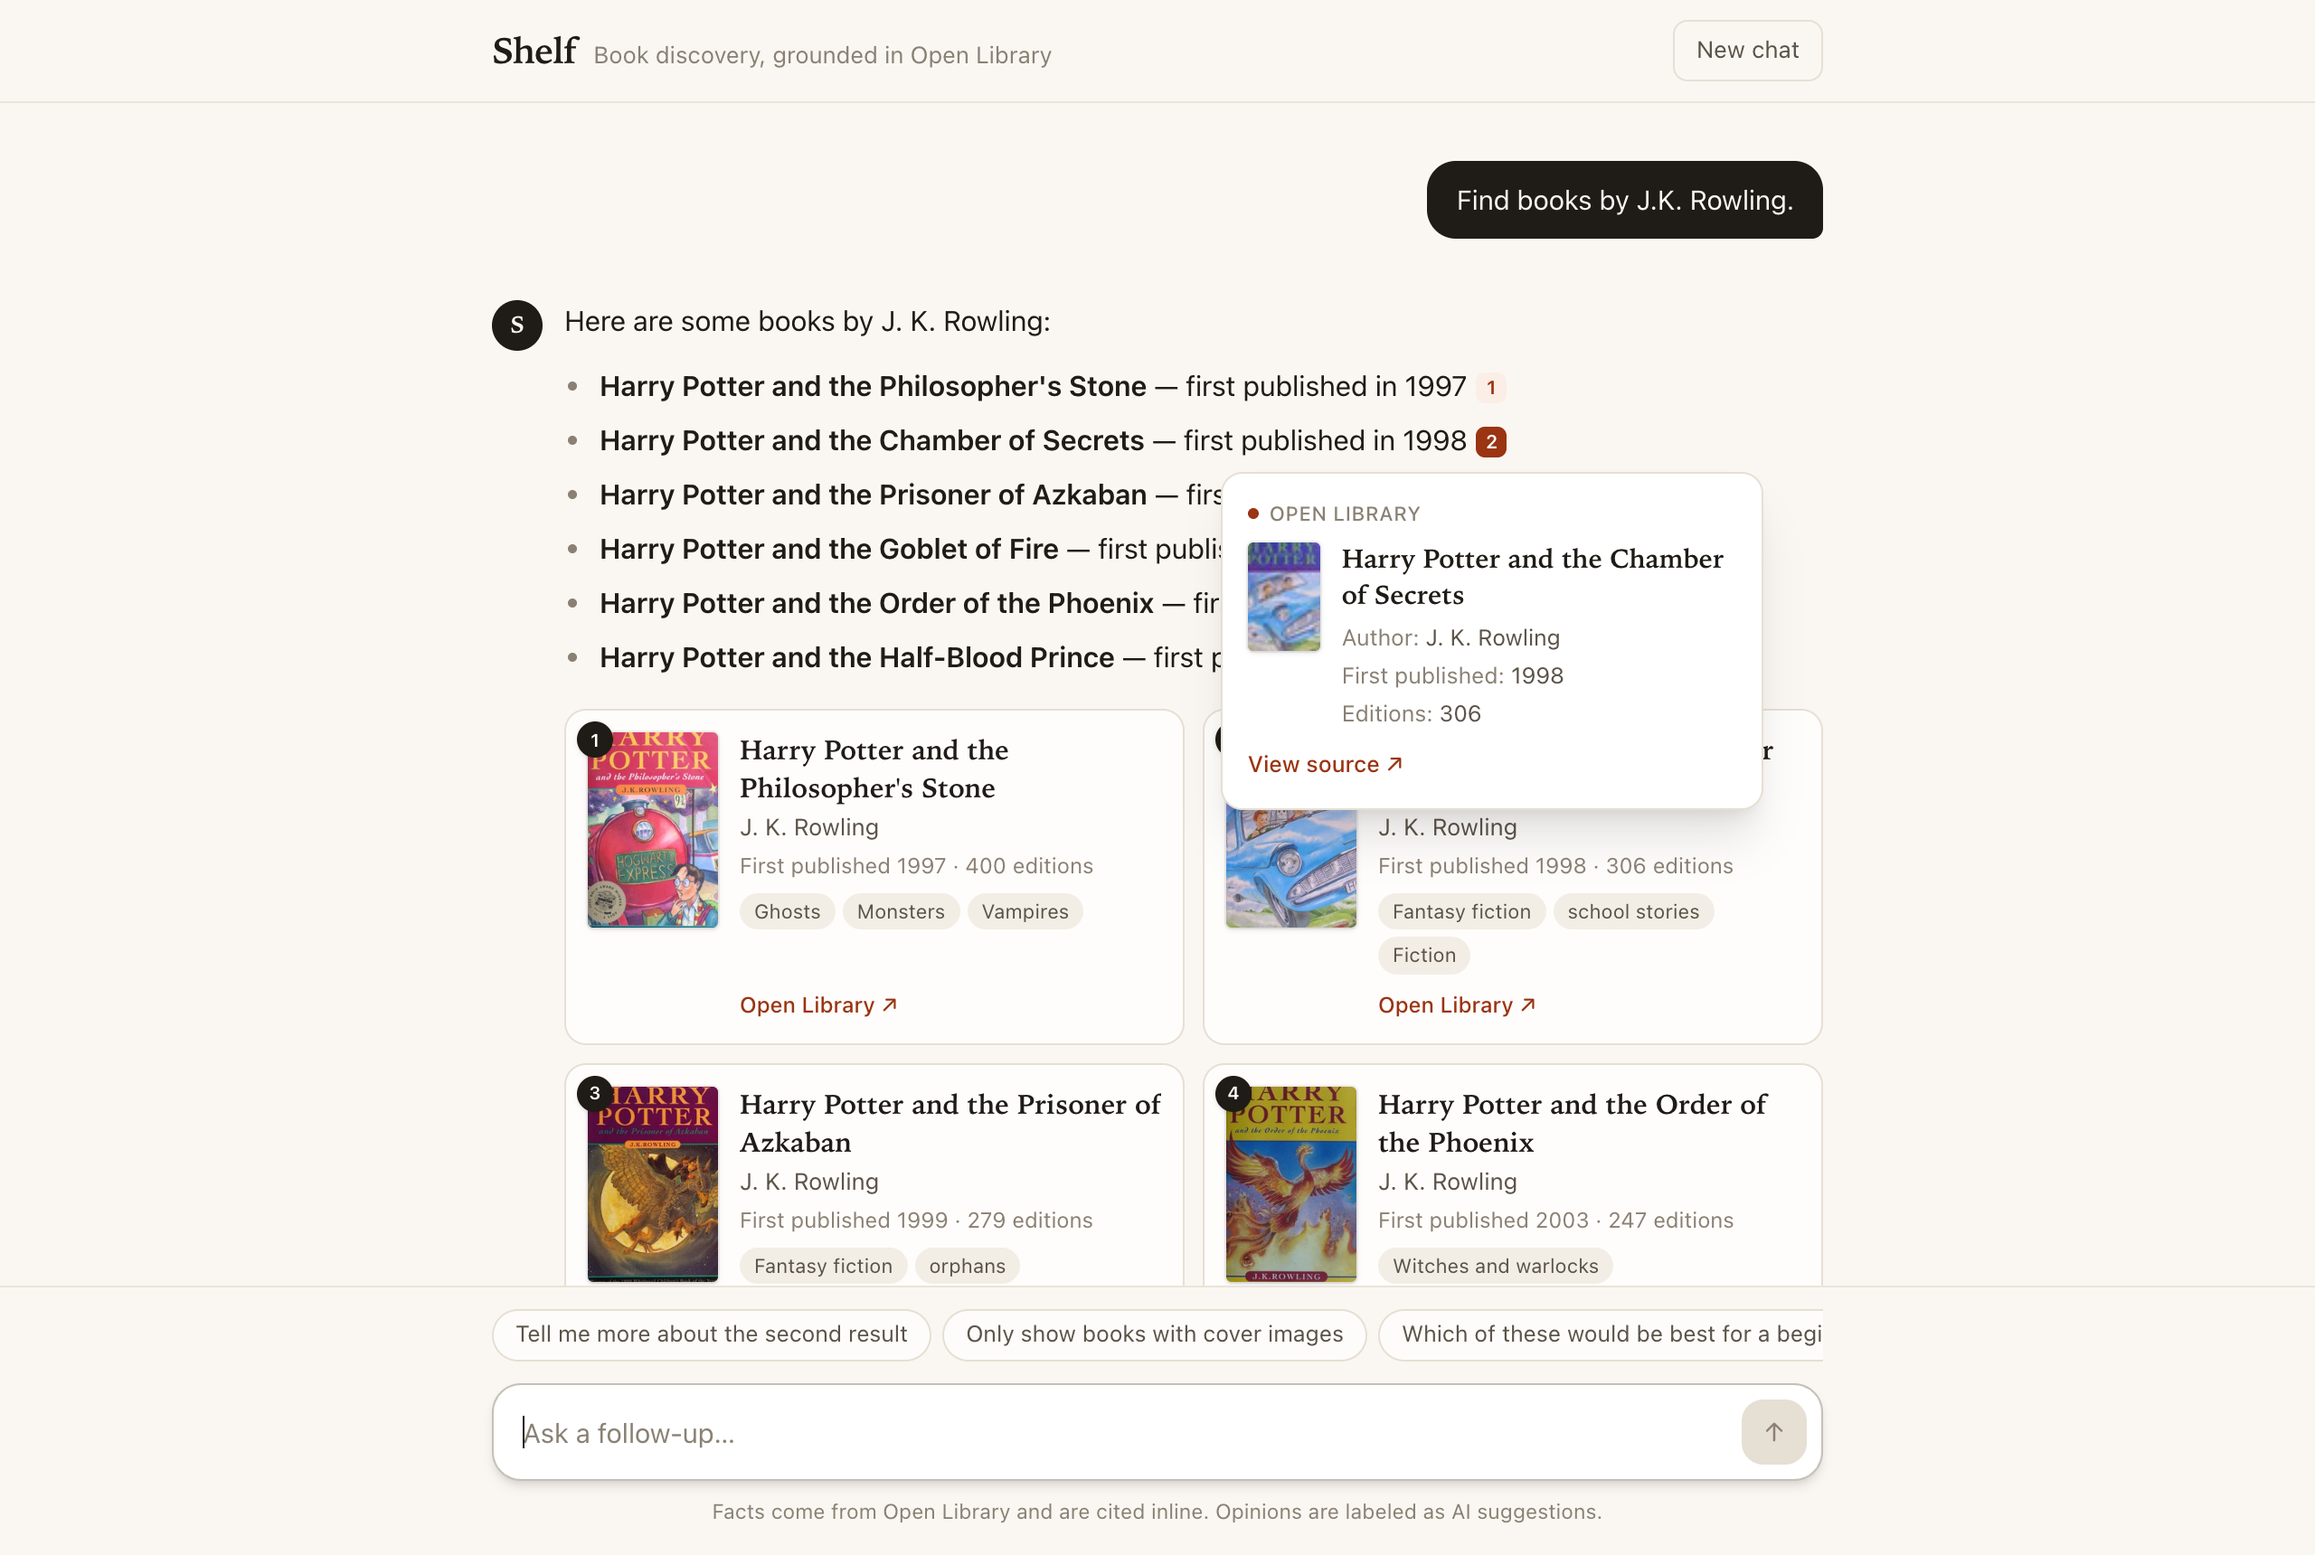
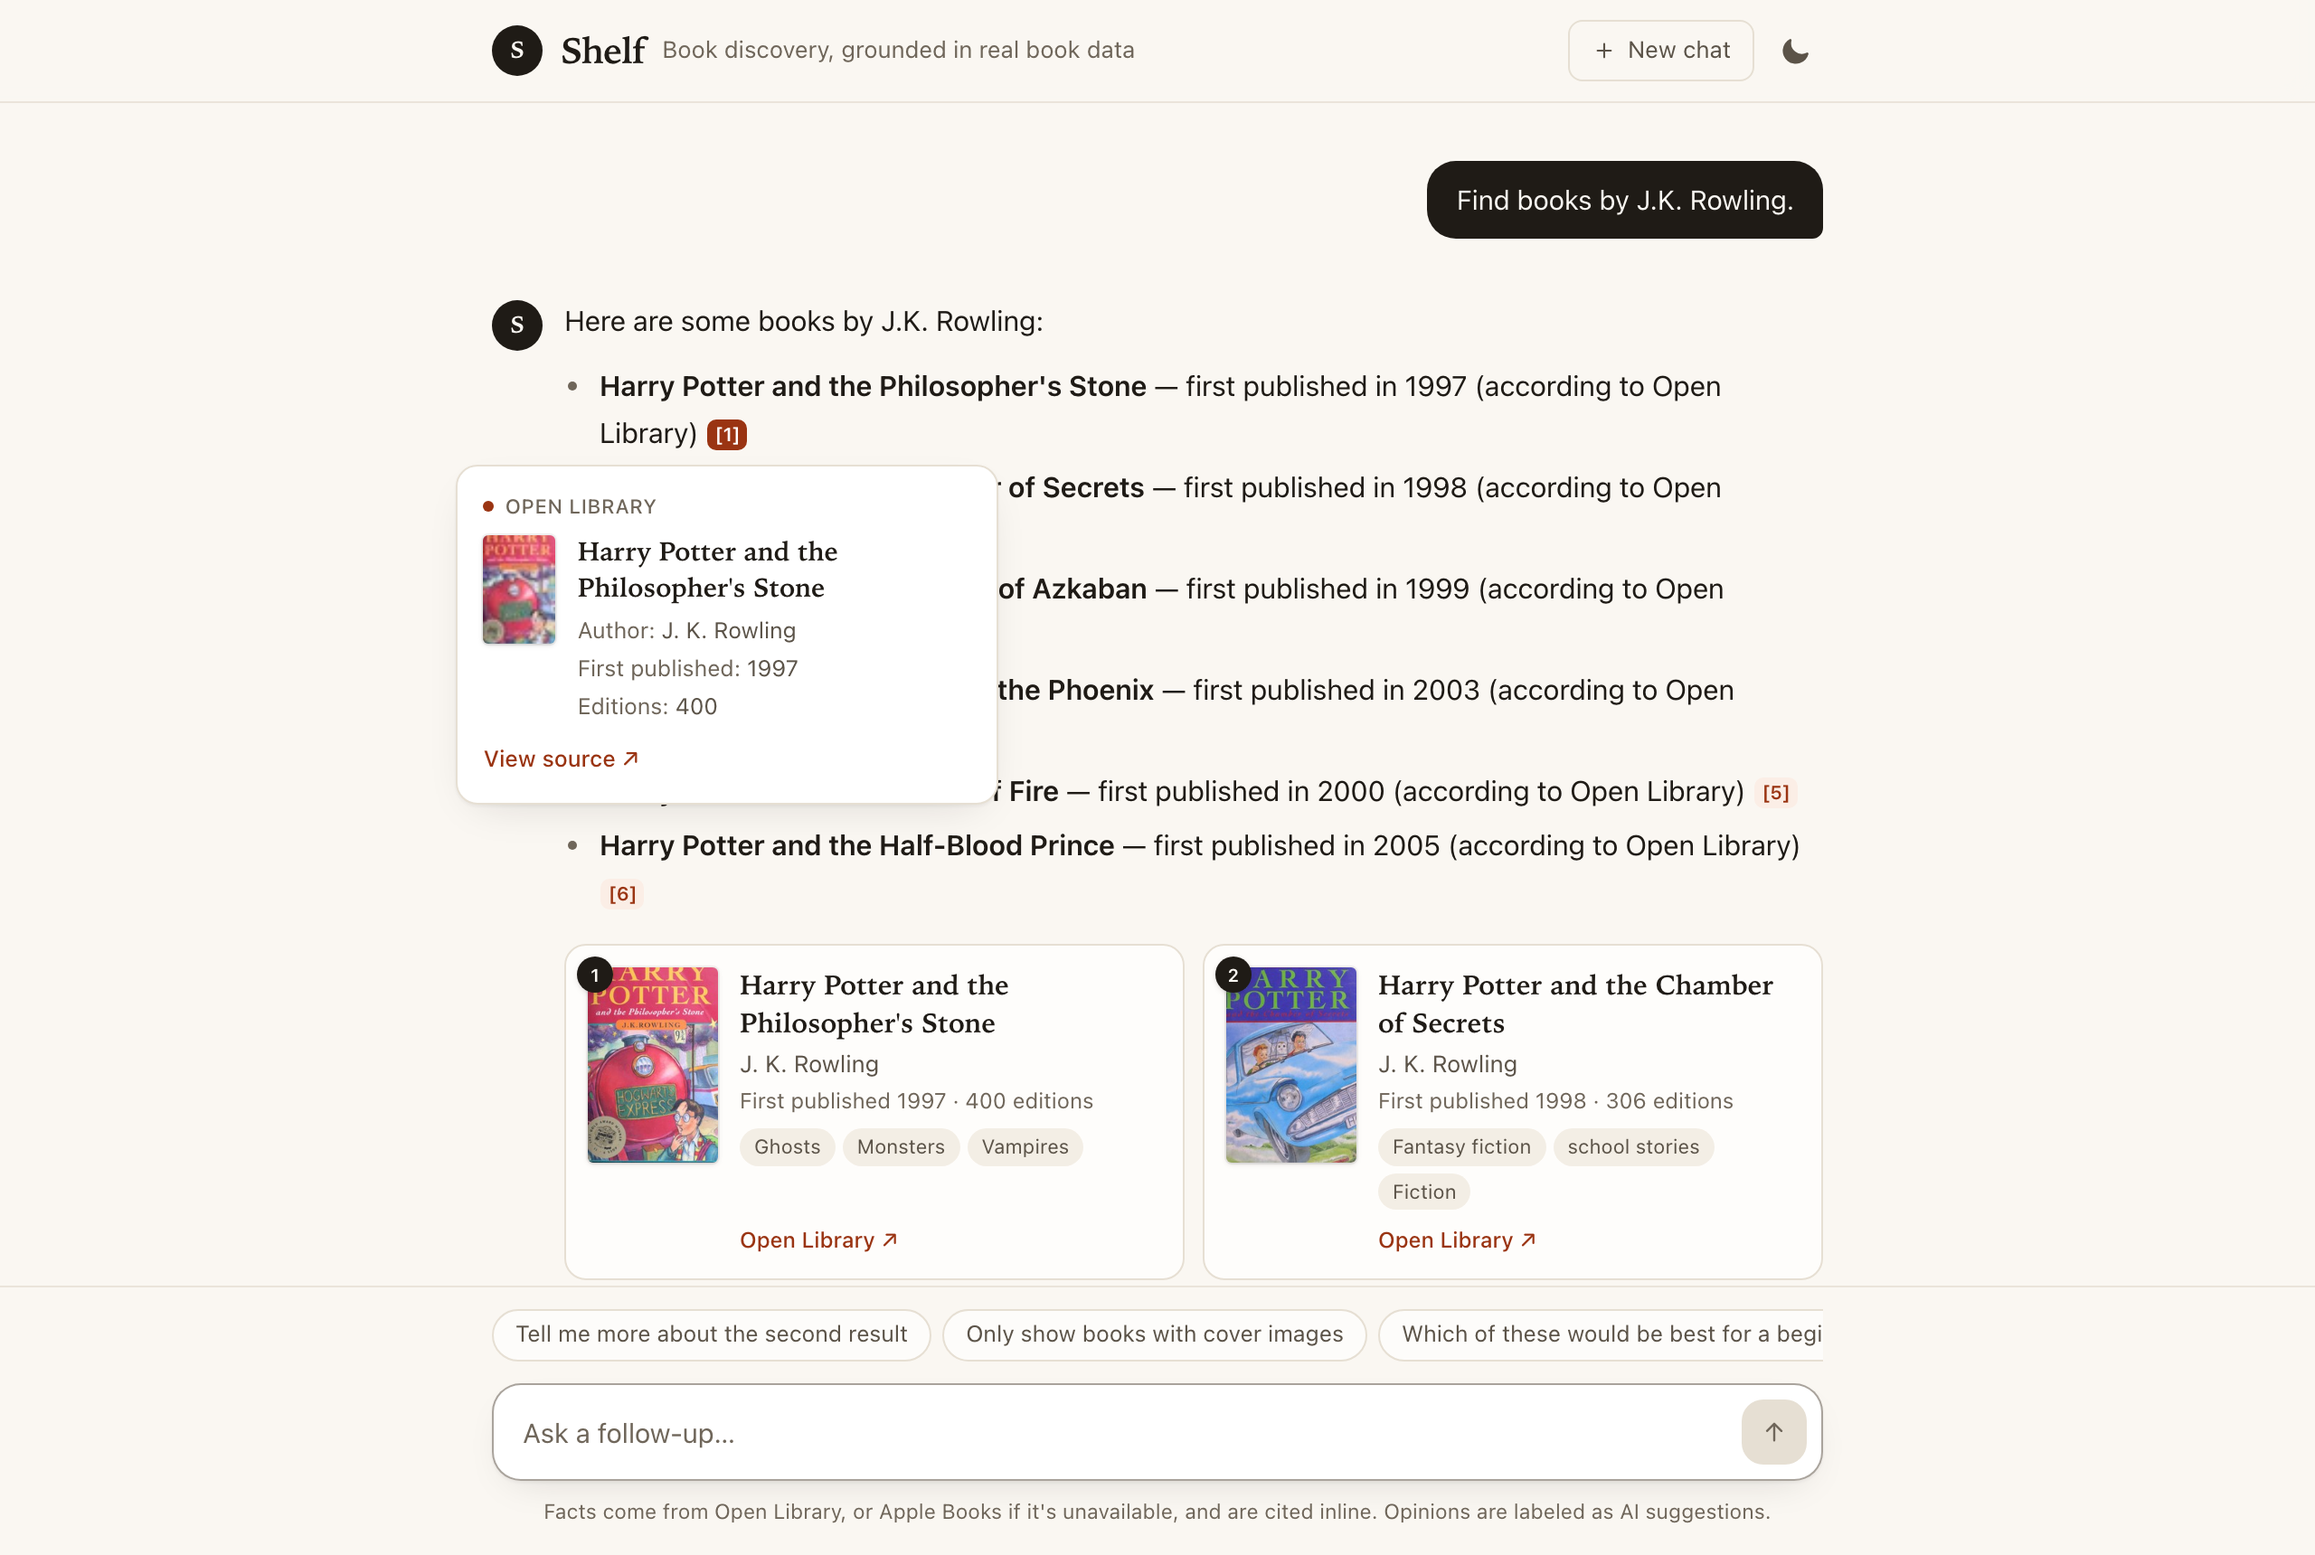
Add the live demo link, a real screenshot and final test results
Drop "according to Open Library" from book lists, where it was noise.

diff --git a/src/lib/prompt.ts b/src/lib/prompt.ts
@@ -28,7 +28,7 @@ export const SYSTEM_PROMPT = `You are Shelf, a book discovery assistant. You hel
 - Never expand, extrapolate or restructure a description into content it doesn't contain. Requests for chapter-by-chapter summaries, full plot walkthroughs, endings, quotes, character lists or reading guides go beyond the record's short description: still search for the book and call get_book_details, say the record doesn't contain what was asked, then give what the description actually says (cited) and show the book. Never fabricate chapters, sections or structure.
 - If a date looks implausible for the book (e.g. a modern novel "first published in 1634", or a year before the author could have written it), still report it as the source's data but add that the date looks like a data error in the record.
 - Never invent ids, links, or sources. The app builds links itself; never write URLs.
-- For Open Library records, "first_publish_year" is the earliest edition Open Library knows about; phrase it as "first published in <year>" and, when the user asks specifically about a date, add "(according to Open Library)" for those records.
+- For Open Library records, "first_publish_year" is the earliest edition Open Library knows about; phrase it as "first published in <year>" and, when the user asks specifically about a date, add "(according to Open Library)" for those records, but never in a list of books.
 
 # Citations — inline, next to the fact
 - Put the record id in square brackets immediately after the sentence, clause or list item it supports: "Kindred was written by Octavia E. Butler and first published in 1979 [S4]."

diff --git a/SUMMARY.md b/SUMMARY.md
@@ -1,5 +1,7 @@
 # Submission summary
 
+**Live demo:** https://book-discovery-chatbot.vercel.app
+
 ## What I built
 **Shelf**, a chat app for discovering books. A Next.js app streams answers from an OpenAI tool-calling agent that pulls all its facts from the Open Library API, with Apple Books as a labelled backup when Open Library refuses. Answers come with book cards (cover, author, first-publication year, edition count, description or subjects, source link) and numbered inline citations. Hovering or clicking a citation opens a preview with the source name, title, author, first-published date, a description snippet and a "View source ↗" link. Follow-up questions work: "the second result", "the author of the first one" and "only ones with covers" all resolve against the cards the user actually saw.
 
@@ -16,8 +18,8 @@ I chose **Open Library search plus on-demand detail fetches** over pre-indexing 
 **A second tradeoff: the backup source.** I kept one main source and added Apple Books only for when Open Library refuses. That keeps the demo working, at the cost of weaker data while it is in use: no first publication dates, and a noisier catalog. I chose to label that clearly and have the bot admit the gap rather than mix in dates it can't support.
 
 ## How I tested it
-- **Unit and agent tests** (`npm test`, 60 tests, no network): citation parsing, Open Library normalization, the agent loop with a fake OpenAI client, and the guardrails.
-- **Live evaluation suite** (`npm run eval`, 17 turns): the 7 required scenarios plus adversarial cases (fabrication pressure, prompt injection, impossible ordinals, no results, off-topic). It checks invariants on every turn: no unknown citation ids, no model-written URLs, no leaked internals, and card links that are Open Library work URLs. It passed 17/17 against the live services with Open Library, with a median answer time of about 3 s. Open Library then started refusing my IP, which led to the Apple Books backup. The final, stricter version passed 17/17 on two consecutive runs against the live OpenAI and Apple Books APIs. I also compared each card from a browser run with Apple's own record (titles, authors, dates, covers, links).
+- **Unit and agent tests** (`npm test`, 62 tests, no network): citation parsing, Open Library normalization, the agent loop with a fake OpenAI client, and the guardrails.
+- **Live evaluation suite** (`npm run eval`, 18 turns): the 7 required scenarios plus adversarial cases (fabrication pressure, prompt injection, impossible ordinals, no results, off-topic). It checks invariants on every turn: no unknown citation ids, no model-written URLs, no leaked internals, and card links that are Open Library work URLs. On the deployed app against the live OpenAI and Open Library APIs, the final version's last two runs scored 17/18 and 18/18, with a median answer time of about 3 s. Answers vary between runs: the one miss was the adversarial 1984 chapter-summary case, where the bot said it couldn't find a reliable match rather than making anything up. Open Library started refusing my own IP during testing, which led to the Apple Books backup, and that path passed the same suite 18/18. I compared each card from a browser run with Apple's own record (titles, authors, dates, covers, links).
 - **Browser QA** in headless Chrome at desktop and mobile sizes, 24 checks: loading state, citation preview on hover, keyboard focus, click and tap, Escape and click-outside, refresh persistence, Stop, New chat, a network failure followed by Try again, missing-cover placeholders, no horizontal overflow on mobile, and zero console errors.
 
 Bugs this testing found and fixed: the bot writing code when asked (it now stays on books), a cover filter that sometimes left no cards on screen, a citation preview that covered its own marker when opened low on the screen (which also broke tapping on phones), an invented chapter-by-chapter summary when the user pushed for one, conversation history being wiped on refresh, invalid HTML nesting in the citation preview, a re-search when the user asked for a result position that didn't exist, citation clutter, and inconsistent first-publication dates between Open Library endpoints.
@@ -39,7 +41,6 @@ I ran the required scenarios end-to-end against three models. `gpt-4.1-mini` som
 - Grounding is enforced by the prompt plus citation validation, not proven sentence by sentence. A model could still paraphrase a record loosely.
 - Conversation history sent to the model is capped at the last 16 messages and 40 known records.
 - Open Library can refuse an IP after bursts of traffic, which happened during testing. The app then uses Apple Books, a store catalog: its dates are ebook release dates, so it can't answer "when was this first published?", and the bot says so. Its results are also noisier, so some listings are weaker matches than Open Library's. If both sources refuse, book questions show an error card.
-- The final version was tested live with Apple Books, because Open Library was still refusing my IP. Its Open Library path was covered by unit tests and earlier live runs.
 - The rate limit (20 requests/minute per IP) is in memory per server instance, so it protects a demo but isn't a production quota system.
 - Open Library data has its own errors (e.g. *Song of Solomon* listed as first published in 1634, SparkNotes listed as a co-author of *Kindred*). The bot reports the data faithfully and flags clearly implausible dates.
 

diff --git a/README.md b/README.md
@@ -4,6 +4,8 @@ A conversational book-discovery app. Ask about authors, titles and topics; answe
 
 ![Shelf answering "Find books by J.K. Rowling" with inline citations and the Open Library source preview](docs/screenshot.png)
 
+**Live demo:** https://book-discovery-chatbot.vercel.app
+
 **Submission summary** (what was built, priorities, limitations, time spent, AI tools): [SUMMARY.md](SUMMARY.md)
 
 **Stack:** Next.js 16 (App Router) · TypeScript · Tailwind CSS 4 · OpenAI Chat Completions (tool calling, streaming) · Open Library API (Apple Books as a backup) · Vitest
@@ -31,7 +33,7 @@ npm run dev                       # http://localhost:3000
 Other scripts:
 
 ```bash
-npm test          # 60 unit + agent-loop tests (no network, no API key needed)
+npm test          # 62 unit + agent-loop tests (no network, no API key needed)
 npm run eval      # live evaluation: required + adversarial scenarios against a running app (needs the key)
 npm run lint      # TypeScript type-check
 npm run build && npm start   # production build
@@ -98,7 +100,7 @@ All scenarios above, plus the other example questions from the brief ("Show me m
 | Layer | Command | What it covers |
 |---|---|---|
 | Unit / agent | `npm test` | Citation parsing and renumbering, invented-id dropping, Open Library normalization, the agent loop with a fake OpenAI client, the guardrails (preamble reset, card fallback, tampered-record rejection), the rate limiter |
-| Live eval | `npm run dev` then `npm run eval` | 17 turns: the 7 required scenarios plus adversarial ones (pressure to fabricate, prompt injection, impossible ordinals, no results, off-topic), with invariants checked on every turn. Exits non-zero on failure, so it can gate prompt or model changes. Pass a URL to evaluate a deployment: `node scripts/eval.mjs https://…` |
+| Live eval | `npm run dev` then `npm run eval` | 18 turns: the 7 required scenarios plus adversarial ones (pressure to fabricate, prompt injection, impossible ordinals, no results, off-topic), with invariants checked on every turn. Exits non-zero on failure, so it can gate prompt or model changes. Pass a URL to evaluate a deployment: `node scripts/eval.mjs https://…` |
 
 ### Book data sources
 Open Library is the main source. If it refuses a request or can't be reached, searches switch to the Apple Books Search API (no key needed) and the app stops calling Open Library for 60 seconds. When a search only finds nothing, it does not switch. Apple's records are labelled wherever they appear: on the card, in the citation preview and in a note under the answer.
